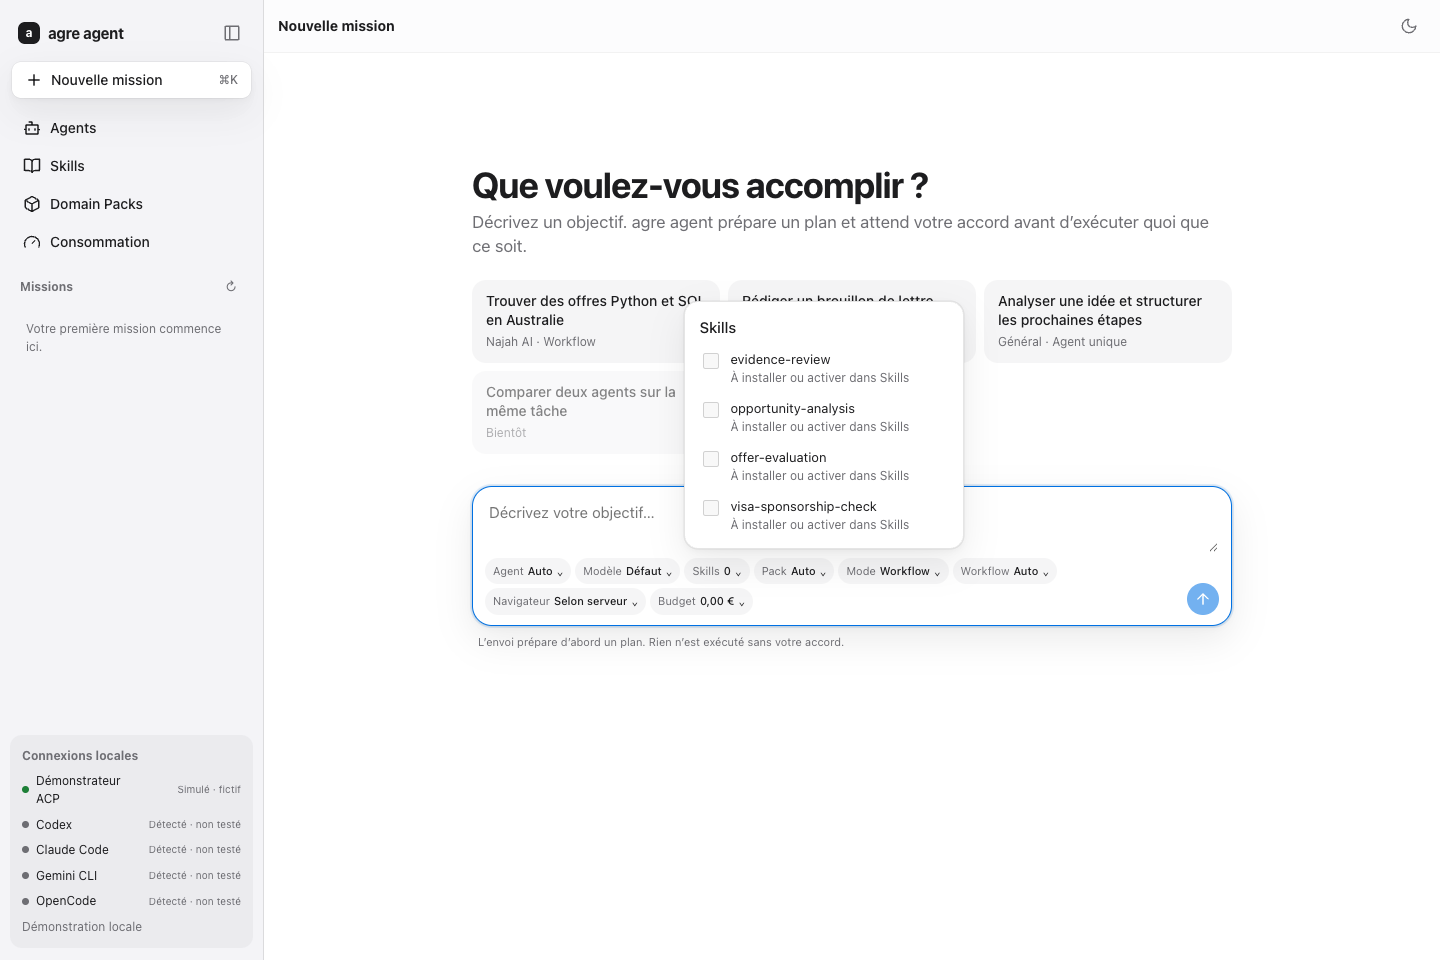
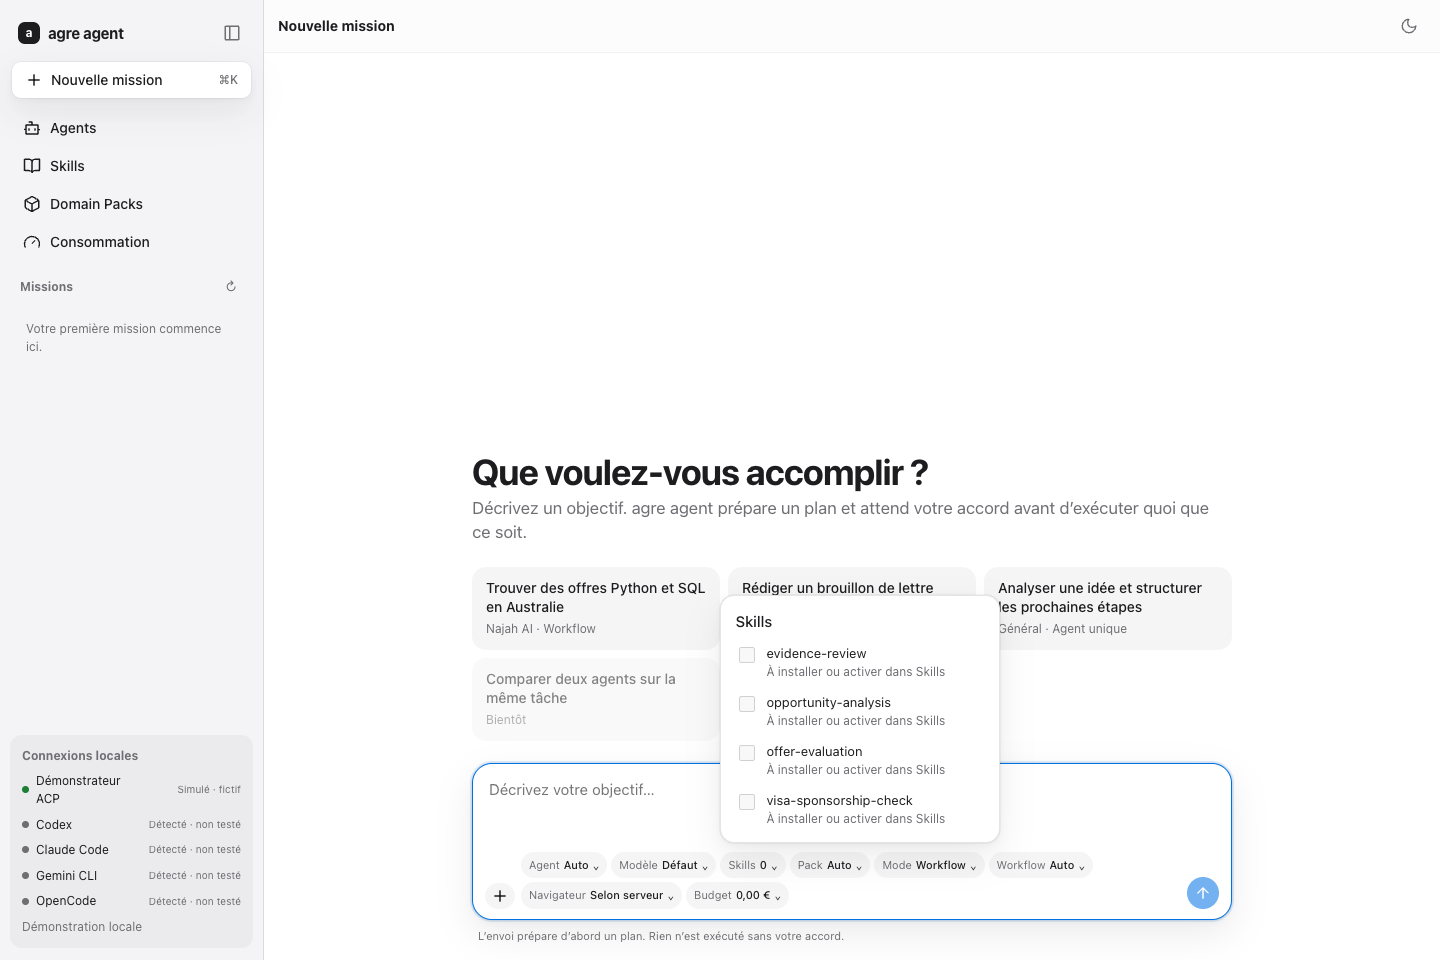
[front-anim-04] Rétablir le dépôt du CV et le bouton d’ajout

diff --git a/src/Composer.tsx b/src/Composer.tsx
@@ -1,5 +1,5 @@
 import { useEffect, useLayoutEffect, useRef, useState } from "react";
-import type { DragEvent, FormEvent, ReactNode } from "react";
+import type { FormEvent, ReactNode } from "react";
 import type { Attachment, Catalog, MissionInput } from "./types";
 import { ATTACHMENT_MAX_COUNT, uploadFile } from "./api";
 import { money } from "./types";
@@ -174,7 +174,6 @@ export function Composer({
     [],
   );
   const addFiles = async (files: FileList | File[]) => {
-    if (reply) return;
     const requestedIn = uploadScope.current;
     setFileError("");
     const list = [...files];
@@ -197,12 +196,38 @@ export function Composer({
       }
     }
   };
-  const drop = (e: DragEvent) => {
-    if (disabled || reply || !e.dataTransfer.files.length) return;
-    e.preventDefault();
-    setDragging(false);
-    void addFiles(e.dataTransfer.files);
-  };
+  useEffect(() => {
+    const over = (event: globalThis.DragEvent) => {
+      if (!event.dataTransfer?.types.includes("Files")) return;
+      event.preventDefault();
+      event.dataTransfer.dropEffect = disabled ? "none" : "copy";
+      setDragging(!disabled);
+    };
+    const drop = (event: globalThis.DragEvent) => {
+      if (!event.dataTransfer?.types.includes("Files")) return;
+      event.preventDefault();
+      setDragging(false);
+      if (disabled) {
+        setFileError(
+          "Terminez la mission ou créez-en une nouvelle pour joindre ce fichier.",
+        );
+        return;
+      }
+      if (event.dataTransfer.files.length)
+        void addFiles(event.dataTransfer.files);
+    };
+    const leave = (event: globalThis.DragEvent) => {
+      if (!event.relatedTarget) setDragging(false);
+    };
+    window.addEventListener("dragover", over);
+    window.addEventListener("drop", drop);
+    window.addEventListener("dragleave", leave);
+    return () => {
+      window.removeEventListener("dragover", over);
+      window.removeEventListener("drop", drop);
+      window.removeEventListener("dragleave", leave);
+    };
+  });
   const [budget, setBudget] = useState(String(input.budgetCents / 100));
   useEffect(
     () => setBudget(String(input.budgetCents / 100)),
@@ -229,23 +254,12 @@ export function Composer({
           if (compact) onOpen?.();
         }}
         aria-label="Préparer une mission"
-        onDragOver={(e) => {
-          if (disabled || reply || !e.dataTransfer.types.includes("Files"))
-            return;
-          e.preventDefault();
-          setDragging(true);
-        }}
-        onDragLeave={(e) => {
-          if (!e.currentTarget.contains(e.relatedTarget as Node))
-            setDragging(false);
-        }}
-        onDrop={drop}
       >
         <input
           ref={fileRef}
           type="file"
           hidden
-          disabled={reply}
+          disabled={disabled}
           multiple
           accept=".pdf,.docx,.md,.markdown,.txt"
           aria-label="Fichier à joindre"
@@ -254,7 +268,7 @@ export function Composer({
             e.target.value = "";
           }}
         />
-        {!reply && (attachments.length > 0 || uploading > 0 || fileError) && (
+        {(attachments.length > 0 || uploading > 0 || fileError) && (
           <div className="attachments" aria-live="polite">
             {attachments.map((a) => (
               <span className="chip" key={a.id}>
@@ -325,12 +339,12 @@ export function Composer({
           </div>
         )}
         <div className="composer-bottom">
+          <AttachMenu
+            disabled={disabled || uploading > 0}
+            onPick={() => fileRef.current?.click()}
+          />
           {!reply && (
             <div className="filters" aria-hidden={compact}>
-              <AttachMenu
-                disabled={disabled || uploading > 0}
-                onPick={() => fileRef.current?.click()}
-              />
               <Filter name="Agent" value={agent?.name || "Auto"}>
                 <label>
                   Agent d’exécution

diff --git a/src/components.test.tsx b/src/components.test.tsx
@@ -128,7 +128,7 @@ describe("rendu fiable", () => {
     });
     expect(onChange).toHaveBeenCalledWith({ ...input, prompt: "autre" });
   });
-  it("en réponse, masque les réglages et pièces jointes que la reprise ignore", () => {
+  it("en réponse, garde l'ajout du CV et masque seulement les réglages", () => {
     render(
       <Composer
         catalog={catalog}
@@ -147,9 +147,62 @@ describe("rendu fiable", () => {
     expect(
       screen.getByRole("button", { name: "Envoyer la réponse" }),
     ).toBeTruthy();
-    expect(screen.queryByText("cv-fictif.txt")).toBeNull();
-    expect(screen.queryByLabelText("Ajouter")).toBeNull();
+    expect(screen.getByText("cv-fictif.txt")).toBeTruthy();
+    expect(screen.getByLabelText("Ajouter")).toBeTruthy();
     expect(screen.queryByLabelText(/Agent /)).toBeNull();
+  });
+  it("le bouton d'ajout reste accessible en mode compact", () => {
+    render(
+      <Composer
+        catalog={catalog}
+        input={input}
+        onChange={vi.fn()}
+        onPlan={vi.fn()}
+        busy={false}
+        compact
+      />,
+    );
+    const add = screen.getByLabelText("Ajouter");
+    expect(add.closest('[aria-hidden="true"]')).toBeNull();
+    expect(add.closest(".filters")).toBeNull();
+  });
+  it("déposer un CV sur la fenêtre l'ajoute au composeur", async () => {
+    const fetcher = vi
+      .fn()
+      .mockResolvedValue(
+        new Response(
+          '{"id":"u2","name":"cv.pdf","size":4,"type":"application/pdf"}',
+          { status: 201 },
+        ),
+      );
+    vi.stubGlobal("fetch", fetcher);
+    const onChange = vi.fn();
+    render(
+      <Composer
+        catalog={catalog}
+        input={input}
+        onChange={onChange}
+        onPlan={vi.fn()}
+        busy={false}
+      />,
+    );
+    const file = new File(["FICTIF"], "cv.pdf", { type: "application/pdf" });
+    const transfer = { files: [file], types: ["Files"] };
+    const over = new Event("dragover", { bubbles: true, cancelable: true });
+    Object.defineProperty(over, "dataTransfer", { value: transfer });
+    expect(window.dispatchEvent(over)).toBe(false);
+    const drop = new Event("drop", { bubbles: true, cancelable: true });
+    Object.defineProperty(drop, "dataTransfer", { value: transfer });
+    expect(window.dispatchEvent(drop)).toBe(false);
+    await waitFor(() =>
+      expect(onChange).toHaveBeenCalledWith({
+        ...input,
+        attachments: [
+          { id: "u2", name: "cv.pdf", size: 4, type: "application/pdf" },
+        ],
+      }),
+    );
+    expect(fetcher).toHaveBeenCalledTimes(1);
   });
   it("bouton + : joindre un fichier, pastille, retrait et erreur de type", async () => {
     const fetcher = vi

diff --git a/src/App.test.tsx b/src/App.test.tsx
@@ -368,6 +368,58 @@ it("conserve le brouillon de réponse si la reprise échoue", async () => {
   await screen.findByText("Reprise impossible");
   expect((composer as HTMLTextAreaElement).value).toBe("Réponse à conserver");
 });
+it("transmet un CV joint lors d'une réponse et vide la pièce après la reprise", async () => {
+  const run = {
+    id: "00000000-0000-4000-8000-000000000011",
+    prompt: "Mission privée FICTIVE",
+    state: "completed",
+    mode: "agent",
+    agent: "fixture",
+    pack: "career-ops",
+    resumable: true,
+    plan: { steps: [], workflow: null },
+    simulated: true,
+    createdAt: "2026-10-28T00:00:00.000Z",
+  } as unknown as Run;
+  vi.mocked(api).mockImplementation(
+    (path) =>
+      Promise.resolve(
+        path === "/catalog" ? catalog : path === "/runs" ? [run] : run,
+      ) as never,
+  );
+  vi.stubGlobal(
+    "fetch",
+    vi
+      .fn()
+      .mockResolvedValue(
+        new Response(
+          '{"id":"cv-1","name":"cv.pdf","size":7,"type":"application/pdf"}',
+          { status: 201 },
+        ),
+      ),
+  );
+  render(<App />);
+  fireEvent.click(
+    await screen.findByRole("button", { name: /Mission privée FICTIVE/ }),
+  );
+  fireEvent.change(screen.getByLabelText("Fichier à joindre"), {
+    target: {
+      files: [new File(["FICTIF"], "cv.pdf", { type: "application/pdf" })],
+    },
+  });
+  await screen.findByText("cv.pdf");
+  fireEvent.change(screen.getByLabelText("Objectif de la mission"), {
+    target: { value: "Analyse ce CV FICTIF" },
+  });
+  fireEvent.click(screen.getByRole("button", { name: "Envoyer la réponse" }));
+  await waitFor(() =>
+    expect(api).toHaveBeenCalledWith(`/runs/${run.id}/resume`, {
+      prompt: "Analyse ce CV FICTIF",
+      attachments: ["cv-1"],
+    }),
+  );
+  await waitFor(() => expect(screen.queryByText("cv.pdf")).toBeNull());
+});
 it("vide l'objectif initial après le lancement pour ne pas le proposer comme réponse", async () => {
   const plan = {
     agent: "fixture",

diff --git a/src/App.tsx b/src/App.tsx
@@ -378,8 +378,15 @@ export default function App() {
     if (!run || !input.prompt.trim()) return;
     const prompt = input.prompt.trim();
     try {
-      await action(`/runs/${run.id}/resume`, { prompt }, true);
-      setInput((old) => ({ ...old, prompt: "" }));
+      await action(
+        `/runs/${run.id}/resume`,
+        {
+          prompt,
+          attachments: input.attachments?.map((file) => file.id) || [],
+        },
+        true,
+      );
+      setInput((old) => ({ ...old, prompt: "", attachments: [] }));
     } catch {
       // The action already displayed the error; keep the draft for retry.
     }
